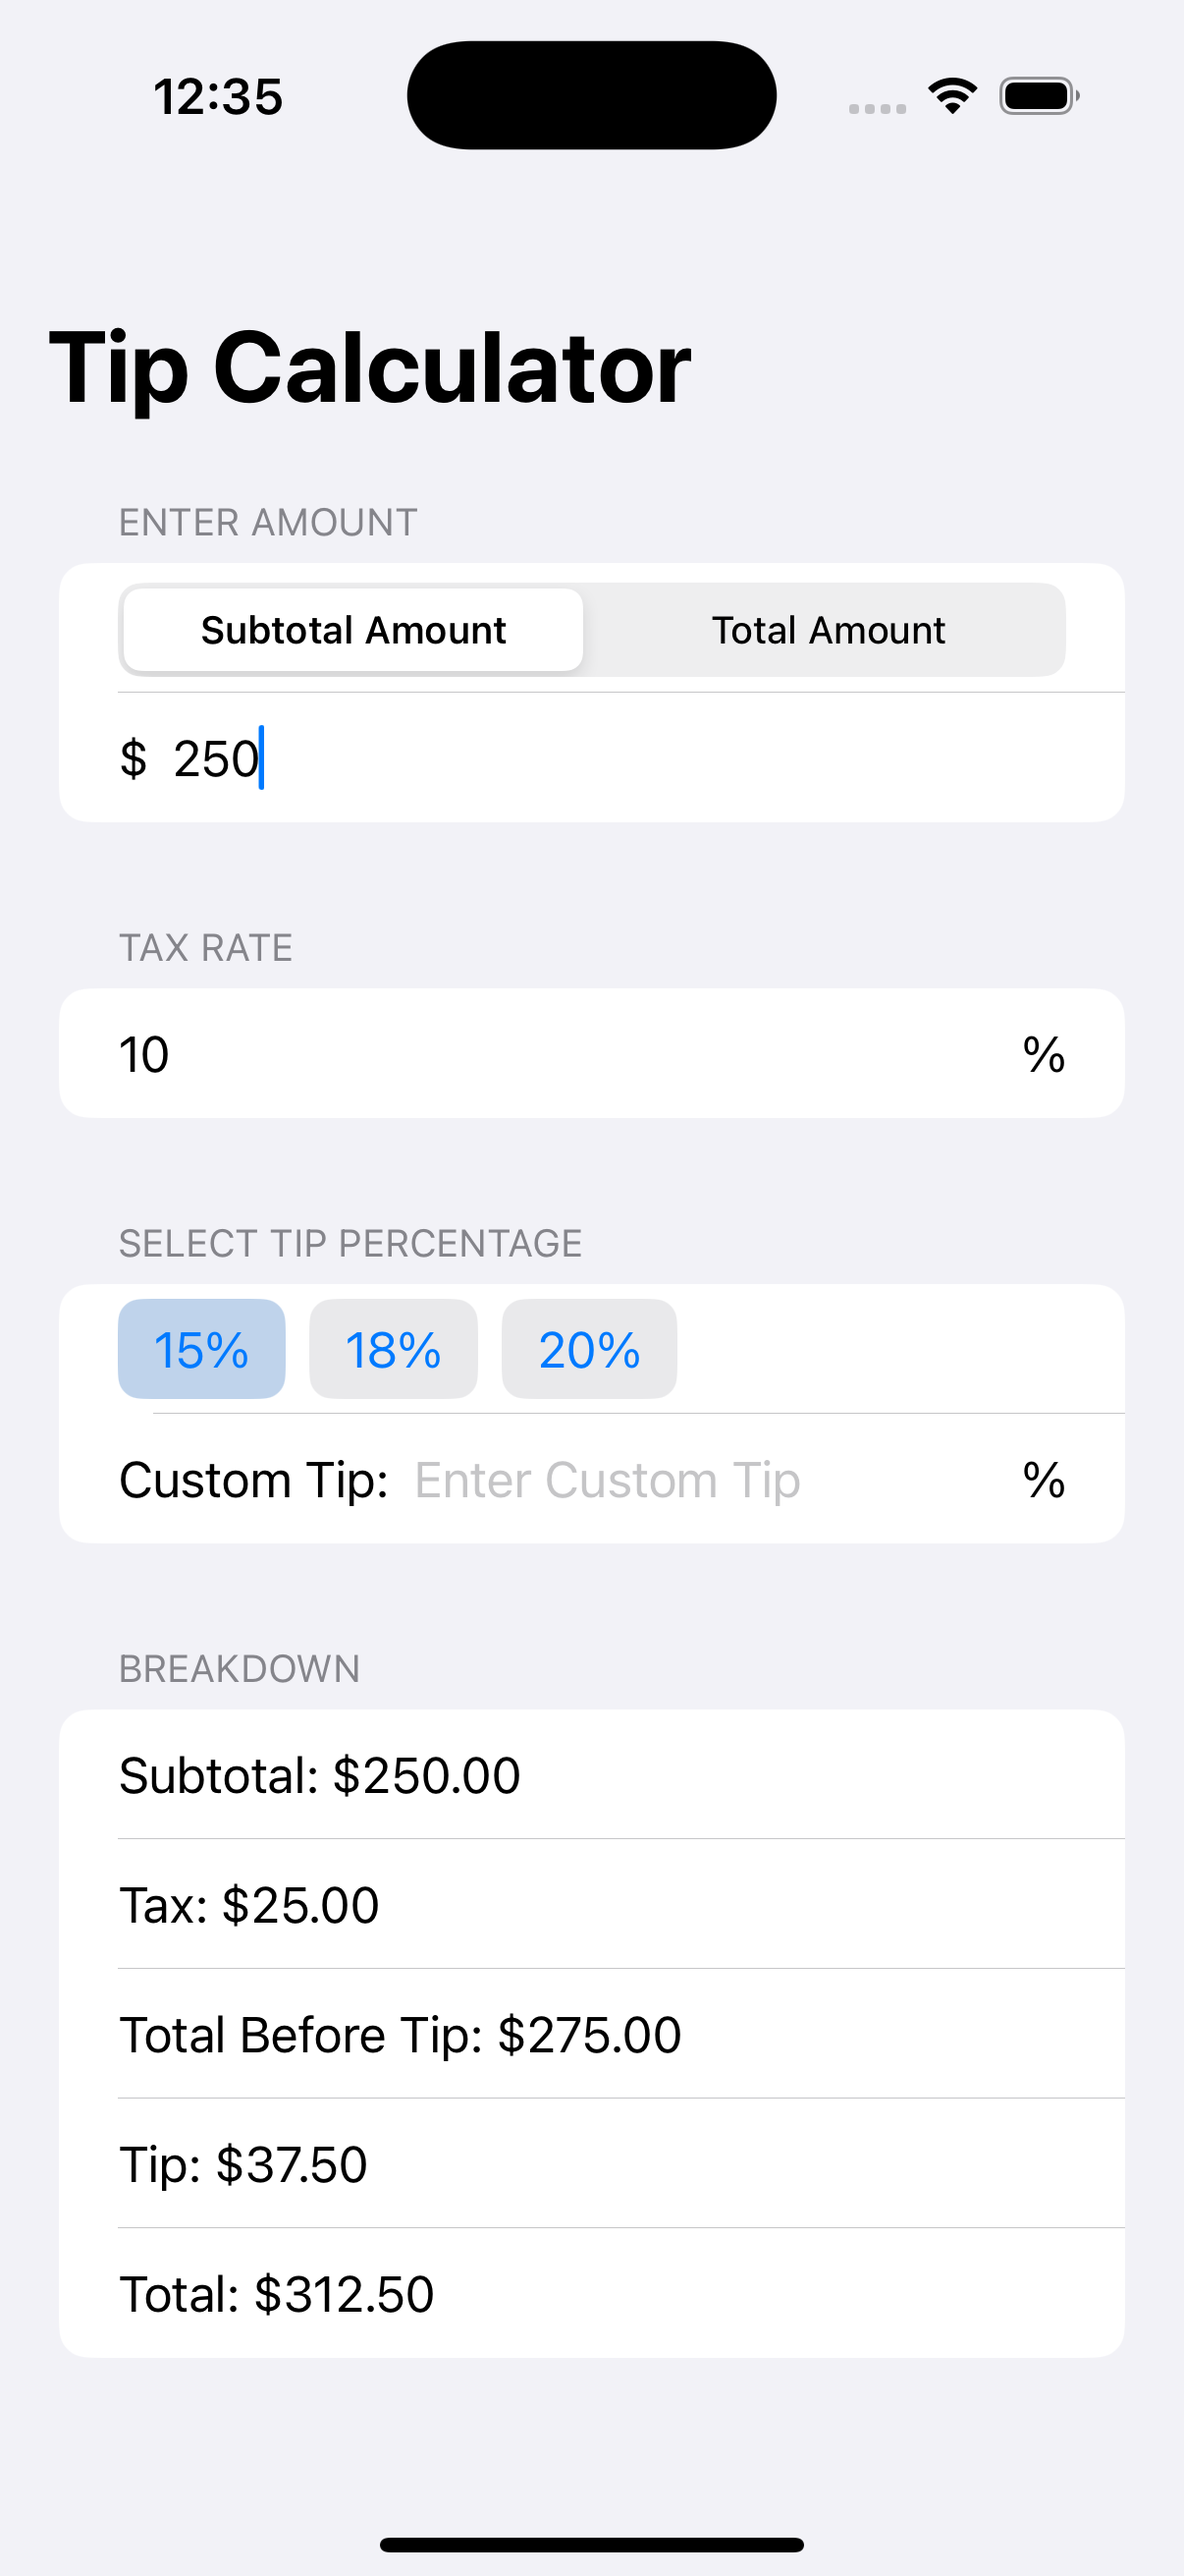
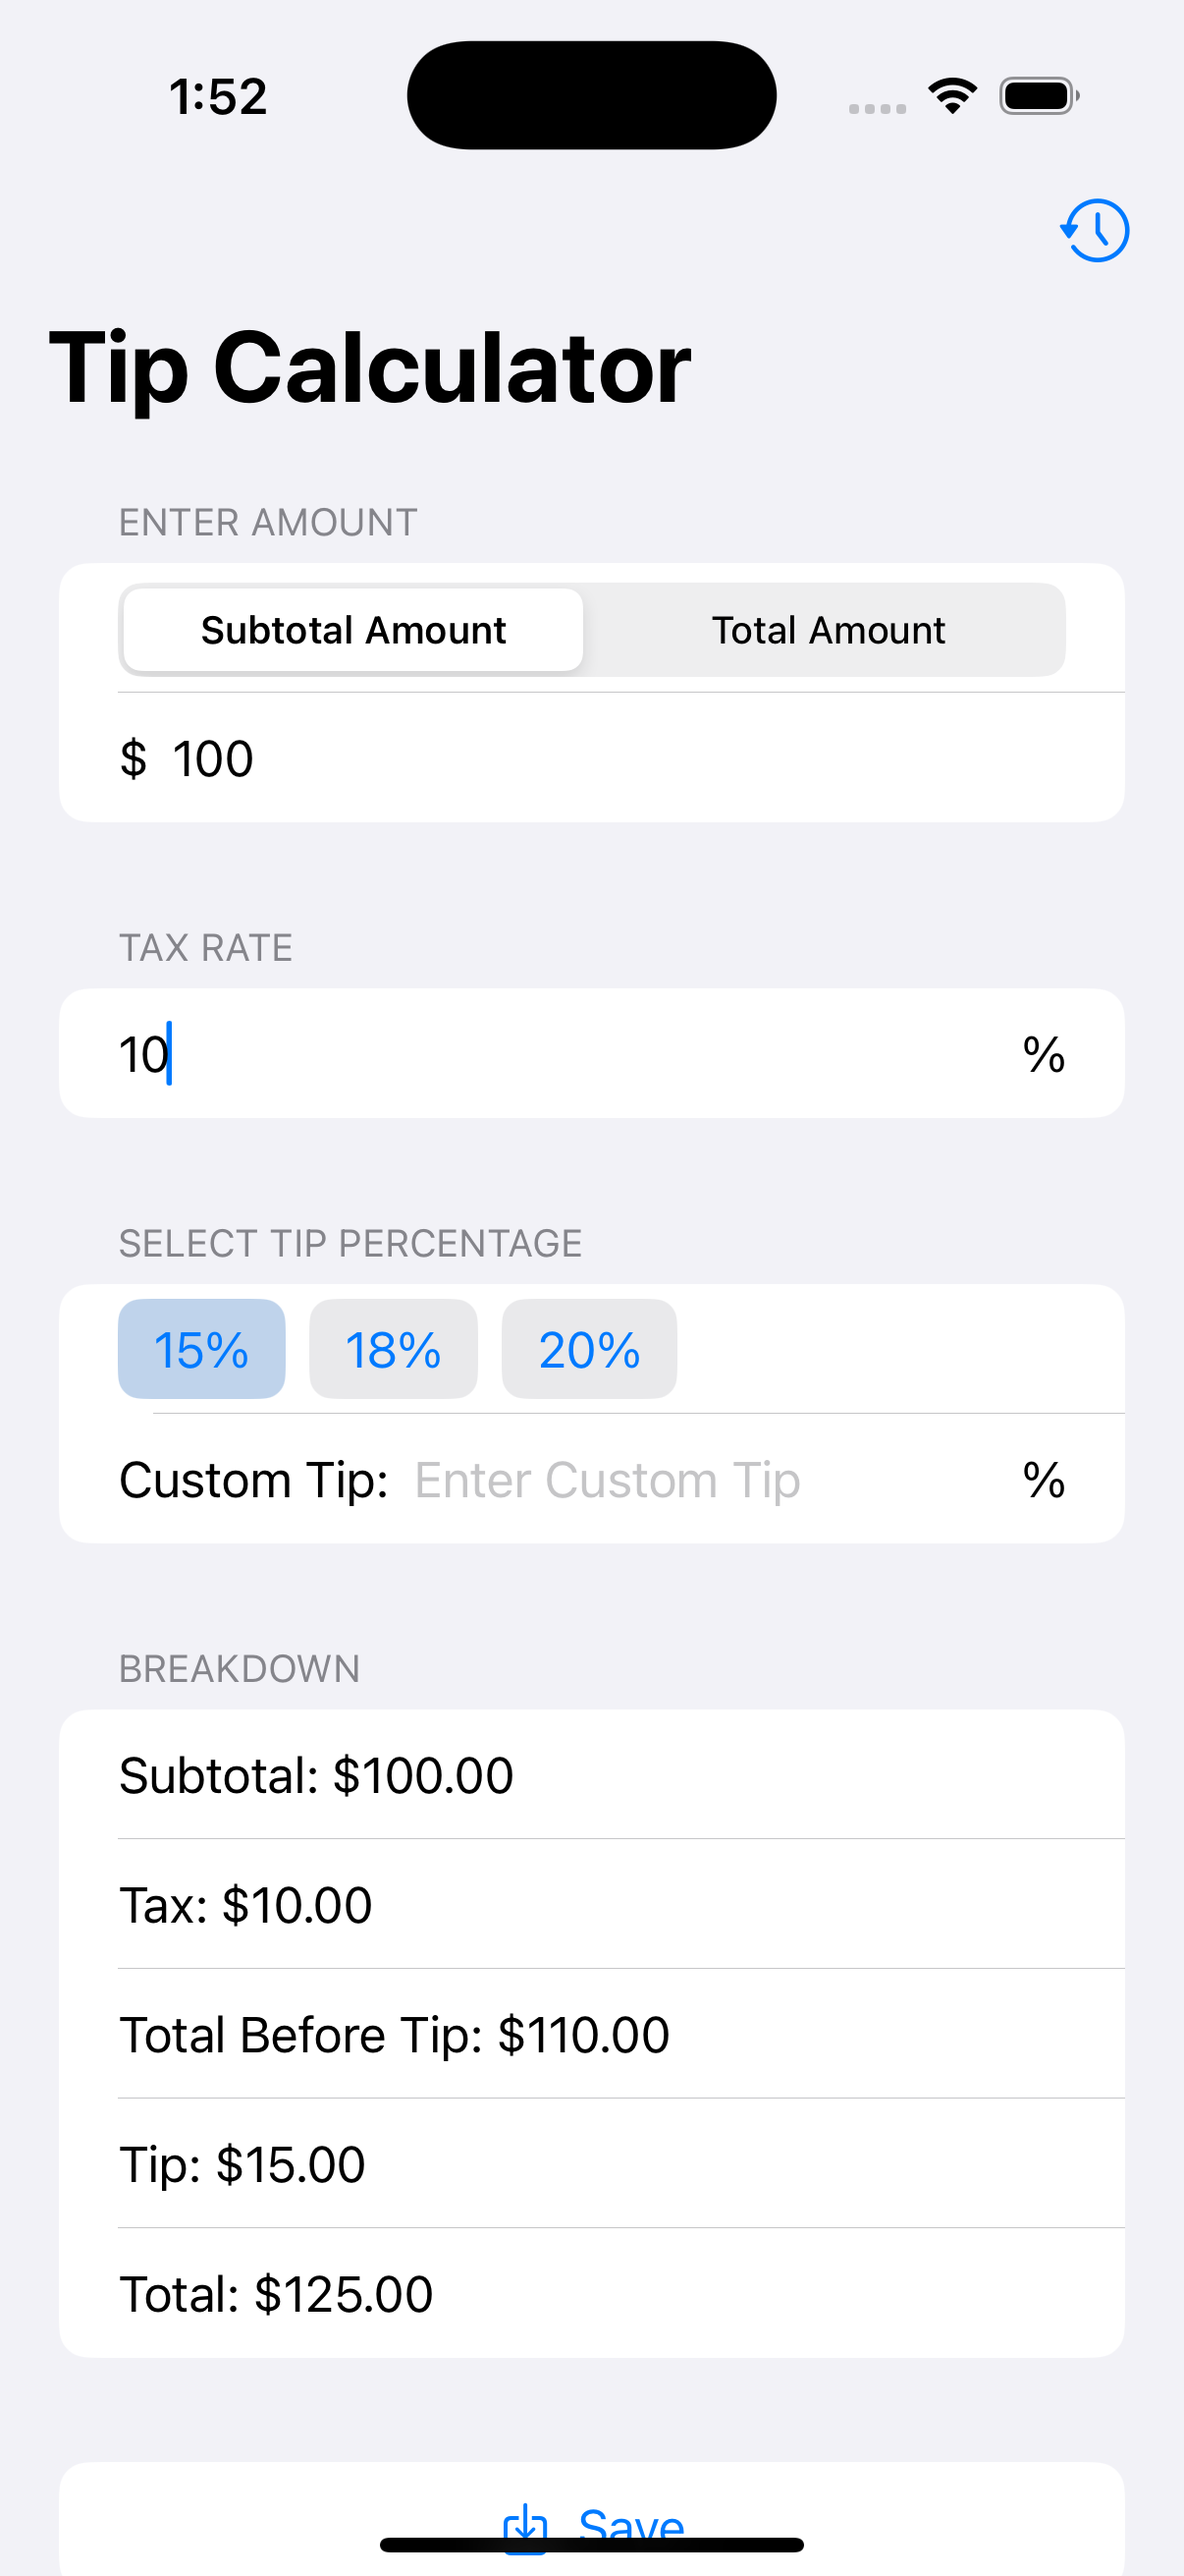
update readme

diff --git a/README.md b/README.md
@@ -2,7 +2,10 @@
 
 A simple and elegant iOS tip calculator that helps you calculate tips easily.
 
-<img src="screenshots/demo.png" width="300" alt="Tip Calculator Screenshot">
+<div style="display: flex; justify-content: space-around; gap: 20px;">
+  <img src="screenshots/demo.png" width="280" alt="Tip Calculator Screenshot">
+  <img src="screenshots/history.png" width="280" alt="History View Screenshot">
+</div>
 
 ## Features
 
